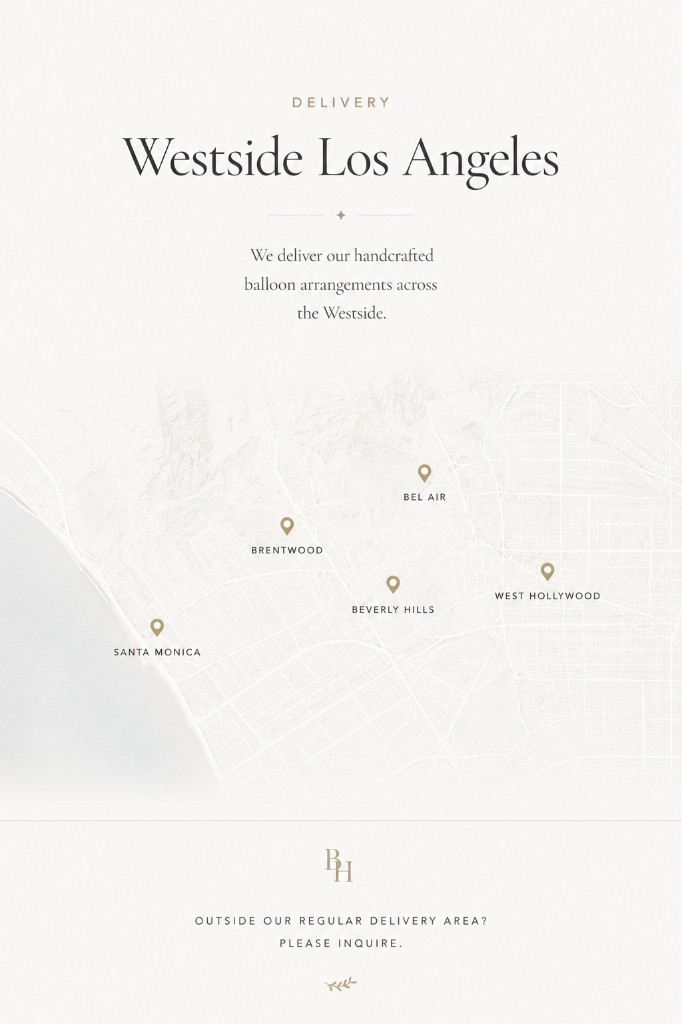
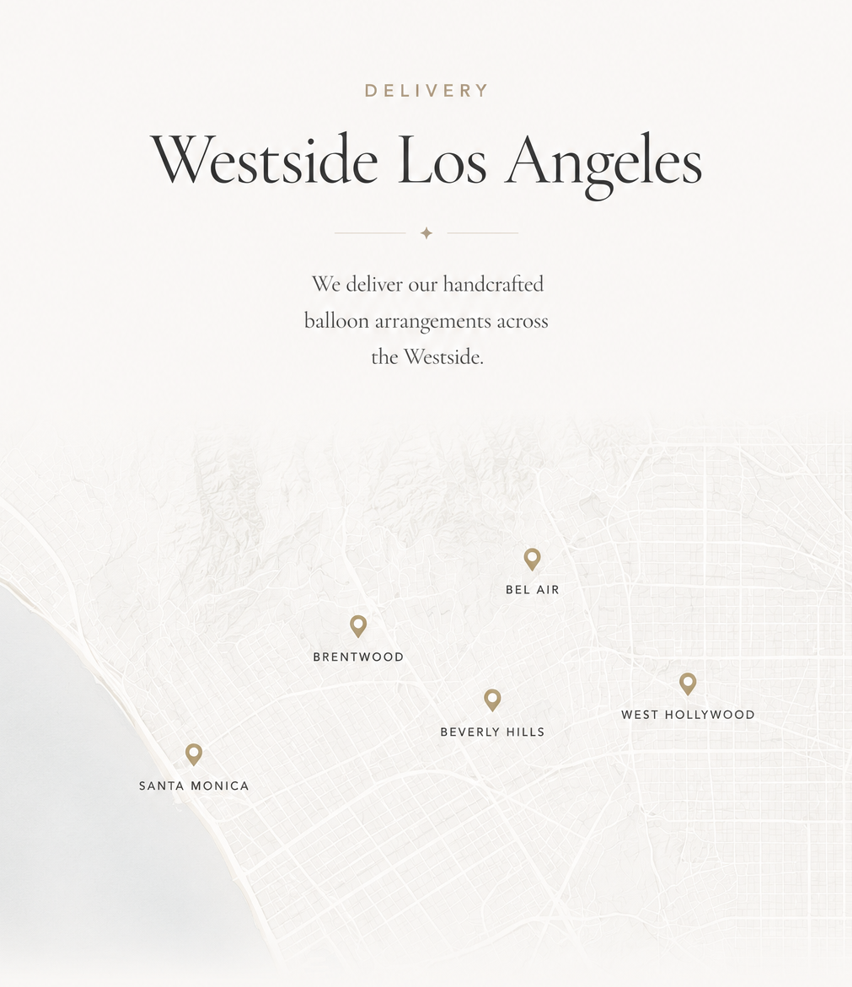
Replace delivery map with updated Westside Los Angeles graphic.

diff --git a/src/components/DeliveryMap.tsx b/src/components/DeliveryMap.tsx
@@ -3,16 +3,16 @@ import { DELIVERY_AREAS } from "@/data/site";
 
 export function DeliveryMap() {
   return (
-    <figure className="mx-auto max-w-md">
+    <figure className="mx-auto max-w-xl">
       <Image
         src="/images/delivery/westside-los-angeles.png"
         alt={`Delivery across Westside Los Angeles: ${DELIVERY_AREAS.join(", ")}`}
-        width={800}
-        height={1200}
+        width={852}
+        height={987}
         loading="lazy"
-        quality={85}
+        quality={90}
         className="h-auto w-full"
-        sizes="(max-width: 768px) 100vw, 448px"
+        sizes="(max-width: 768px) 100vw, 576px"
       />
     </figure>
   );